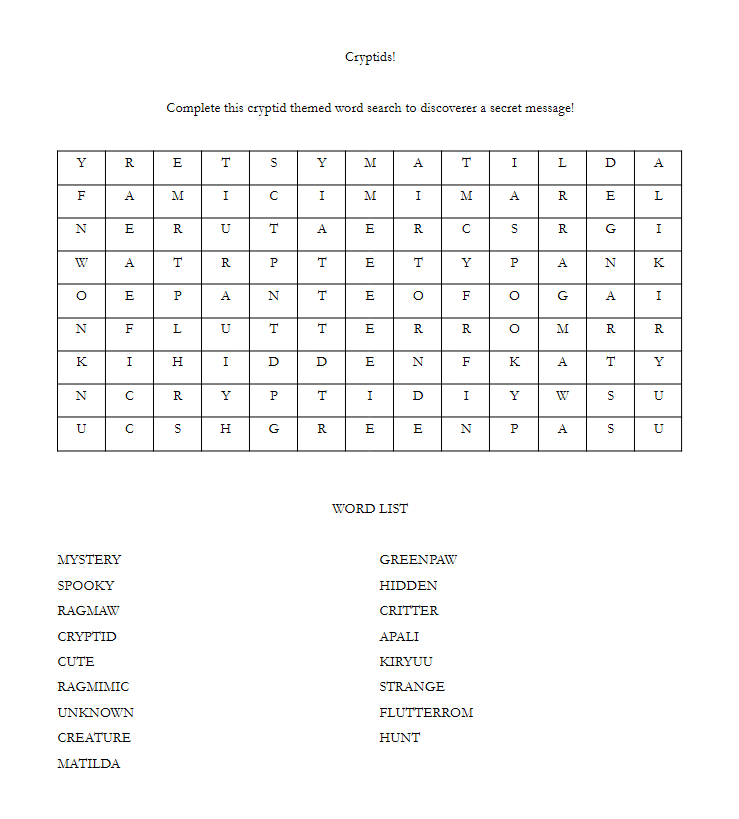
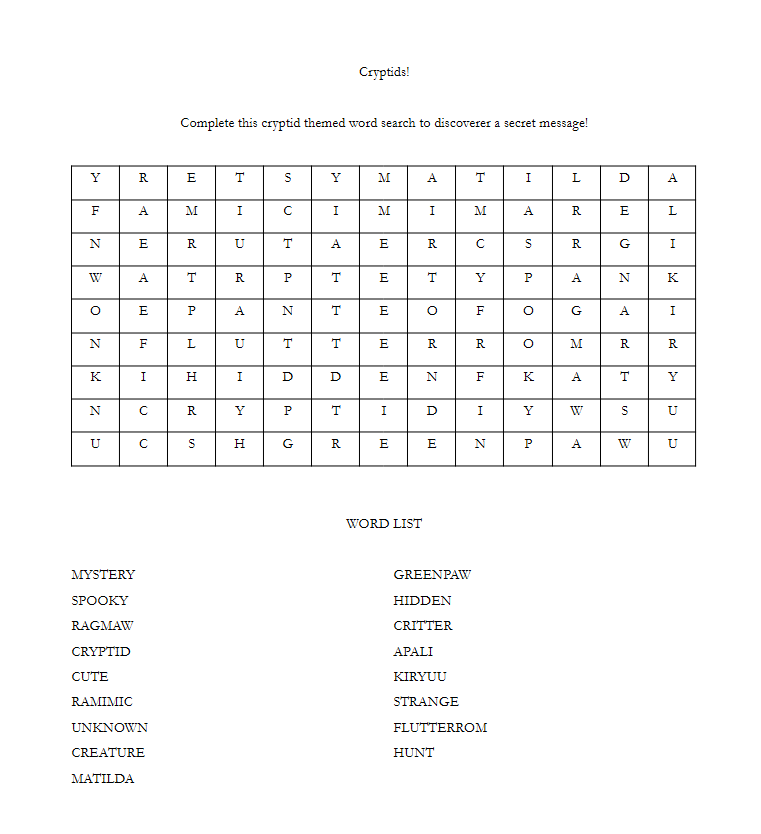
blockquote support

diff --git a/sass/posts.scss b/sass/posts.scss
@@ -55,6 +55,23 @@
         }
     }
 
+    blockquote {
+        position: relative;
+        padding: 1.5em;
+        padding-top: 2em;
+        padding-left: 2.5em;
+        border: 1px solid #043038;
+        background-color: rgba(#043038, 0.35);
+
+        &::before {
+            position: absolute;
+            top: 0.5em;
+            left: 0.5em;
+            content: open-quote;
+            font-size: 2em;
+        }
+    }
+
 
     details {
         summary {

diff --git a/src/category/private-discussion-zone/i-got-a-letter/post-02.md b/src/category/private-discussion-zone/i-got-a-letter/post-02.md
@@ -12,7 +12,7 @@ Dearest RipplePopPop,
 
 I’ll be going on a trip soon. Hopefully it will be a good one and I’ll come back with lots of laughs and pictures and stories for everyone on the forum! But before I go, I want to leave you something. You’ve always been my favorite on the forum and probably the best of us.
 
-Here’s a little something for you:
+Here’s a little something for you:<br/><br/>
 <img src="/assets/img/puzzles/9b04d2c2-270f-4ef1-8b50-c29b9df05775.png"/>
 
 Just think about it, okay? That’s the only hint I can give you.
